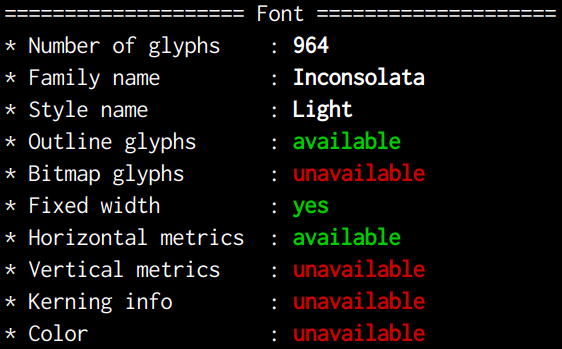
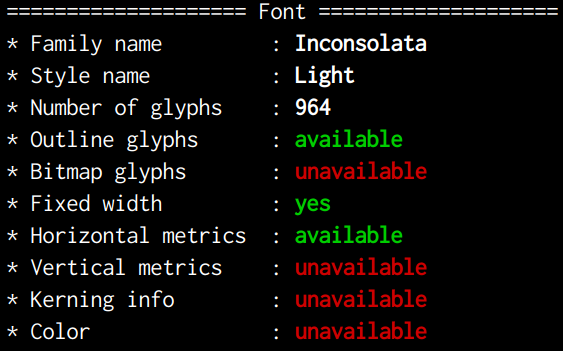
Format the source

diff --git a/fontfetch.c b/fontfetch.c
@@ -1,40 +1,41 @@
-#include <stdio.h>
 #include <ft2build.h>
-#include FT_FREETYPE_H  
+#include <stdio.h>
+#include FT_FREETYPE_H
 
-#define COLOR_BOLD    "\x1b[1m"
-#define COLOR_RED     "\x1b[1;31m"
-#define COLOR_GREEN   "\x1b[1;32m"
-#define COLOR_YELLOW  "\x1b[1;33m"
-#define COLOR_BLUE    "\x1b[1;34m"
+#define COLOR_BOLD "\x1b[1m"
+#define COLOR_RED "\x1b[1;31m"
+#define COLOR_GREEN "\x1b[1;32m"
+#define COLOR_YELLOW "\x1b[1;33m"
+#define COLOR_BLUE "\x1b[1;34m"
 #define COLOR_MAGENTA "\x1b[1;35m"
-#define COLOR_CYAN    "\x1b[1;36m"
-#define COLOR_RESET   "\x1b[0m"
+#define COLOR_CYAN "\x1b[1;36m"
+#define COLOR_RESET "\x1b[0m"
 
 
-#define VALUE_TYPE_STR     (1 << 0)
-#define VALUE_TYPE_YESNO   (1 << 1)
-#define VALUE_TYPE_AVAIL   (1 << 2)
-#define VALUE_TYPE_INT     (1 << 3)
+#define VALUE_TYPE_STR (1 << 0)
+#define VALUE_TYPE_YESNO (1 << 1)
+#define VALUE_TYPE_AVAIL (1 << 2)
+#define VALUE_TYPE_INT (1 << 3)
 #define VALUE_TYPE_LONGINT (1 << 4)
 
 
 void print_line(const char *field, const void *value, int value_type)
 {
-    #define YESNO(x) (x) ? COLOR_GREEN "yes" COLOR_RESET : \
-                           COLOR_RED   "no"  COLOR_RESET
+#define YESNO(x) \
+    (x) ? COLOR_GREEN "yes" COLOR_RESET : COLOR_RED "no" COLOR_RESET
 
-    #define AVAIL(x) (x) ? COLOR_GREEN "available"   COLOR_RESET : \
-                           COLOR_RED   "unavailable" COLOR_RESET
+#define AVAIL(x)                              \
+    (x) ? COLOR_GREEN "available" COLOR_RESET \
+        : COLOR_RED "unavailable" COLOR_RESET
 
-    /* 1. print the field */  
+    /* 1. print the field */
     printf("* %-20s: ", field);
 
 
     /* 2. print the value */
     switch (value_type) {
     case VALUE_TYPE_STR:
-        printf(COLOR_BOLD "%s\n" COLOR_RESET, (const char *)value); 
+        printf(COLOR_BOLD "%s\n" COLOR_RESET, (const char *) value);
         break;
     case VALUE_TYPE_LONGINT:
         printf(COLOR_BOLD "%ld\n" COLOR_RESET, *(const long int *) value);
@@ -52,46 +53,52 @@ void print_font_info(FT_Face face)
     printf("==================== Font ====================\n");
 
     /* Access FT_FaceRec */
+    print_line("Family name", face->family_name, VALUE_TYPE_STR);
+    print_line("Style name", face->style_name, VALUE_TYPE_STR);
     print_line("Number of glyphs", &face->num_glyphs, VALUE_TYPE_LONGINT);
-    print_line("Family name",      face->family_name, VALUE_TYPE_STR);   
-    print_line("Style name",       face->style_name,  VALUE_TYPE_STR);
 
     /* Pass integer as pointer */
     print_line("Outline glyphs",
-               (const void *) (face->face_flags & FT_FACE_FLAG_SCALABLE),    VALUE_TYPE_AVAIL);
+               (const void *) (face->face_flags & FT_FACE_FLAG_SCALABLE),
+               VALUE_TYPE_AVAIL);
     print_line("Bitmap glyphs",
-               (const void *) (face->face_flags & FT_FACE_FLAG_FIXED_SIZES), VALUE_TYPE_AVAIL);
+               (const void *) (face->face_flags & FT_FACE_FLAG_FIXED_SIZES),
+               VALUE_TYPE_AVAIL);
     print_line("Fixed width",
-               (const void *) (face->face_flags & FT_FACE_FLAG_FIXED_WIDTH), VALUE_TYPE_YESNO);
+               (const void *) (face->face_flags & FT_FACE_FLAG_FIXED_WIDTH),
+               VALUE_TYPE_YESNO);
     print_line("Horizontal metrics",
-               (const void *) (face->face_flags & FT_FACE_FLAG_HORIZONTAL),  VALUE_TYPE_AVAIL);
+               (const void *) (face->face_flags & FT_FACE_FLAG_HORIZONTAL),
+               VALUE_TYPE_AVAIL);
     print_line("Vertical metrics",
-               (const void *) (face->face_flags & FT_FACE_FLAG_VERTICAL),    VALUE_TYPE_AVAIL);
+               (const void *) (face->face_flags & FT_FACE_FLAG_VERTICAL),
+               VALUE_TYPE_AVAIL);
     print_line("Kerning info",
-               (const void *) (face->face_flags & FT_FACE_FLAG_KERNING),     VALUE_TYPE_AVAIL);
-    print_line("Color",
-               (const void *) (face->face_flags & FT_FACE_FLAG_COLOR),       VALUE_TYPE_AVAIL);
+               (const void *) (face->face_flags & FT_FACE_FLAG_KERNING),
+               VALUE_TYPE_AVAIL);
+    print_line("Color", (const void *) (face->face_flags & FT_FACE_FLAG_COLOR),
+               VALUE_TYPE_AVAIL);
 }
 
 void read_font(const char *filename)
 {
     FT_Library library;
     FT_Face face;
-    FT_Error error; 
+    FT_Error error;
 
 
     error = FT_Init_FreeType(&library);
     if (error) {
         fprintf(stderr, "Error when initializing the font library!\n");
         exit(EXIT_FAILURE);
-    } 
+    }
 
     error = FT_New_Face(library, filename, 0, &face);
     if (error == FT_Err_Unknown_File_Format) {
-        fprintf(stderr, "Error!! Unknown file format!\n"); 
+        fprintf(stderr, "Error!! Unknown file format!\n");
         exit(EXIT_FAILURE);
     } else if (error) {
-        fprintf(stderr, "Unknown error!\n"); 
+        fprintf(stderr, "Unknown error!\n");
         exit(EXIT_FAILURE);
     }
 
@@ -102,7 +109,7 @@ void read_font(const char *filename)
 int main(int argc, char *argv[])
 {
     if (argc < 2) {
-        fprintf(stderr, "Usage: %s <font file>\n", argv[0]); 
+        fprintf(stderr, "Usage: %s <font file>\n", argv[0]);
         exit(EXIT_FAILURE);
     }
     read_font(argv[1]);
